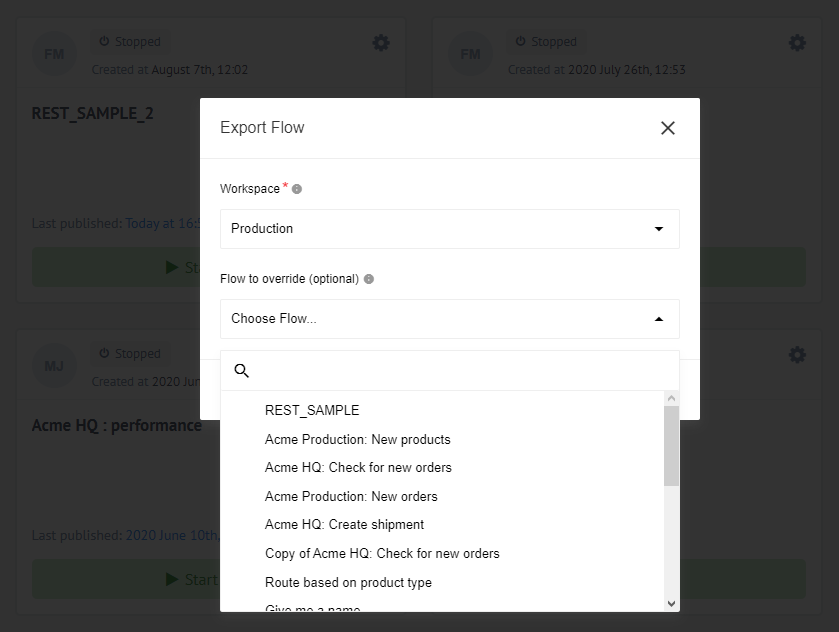
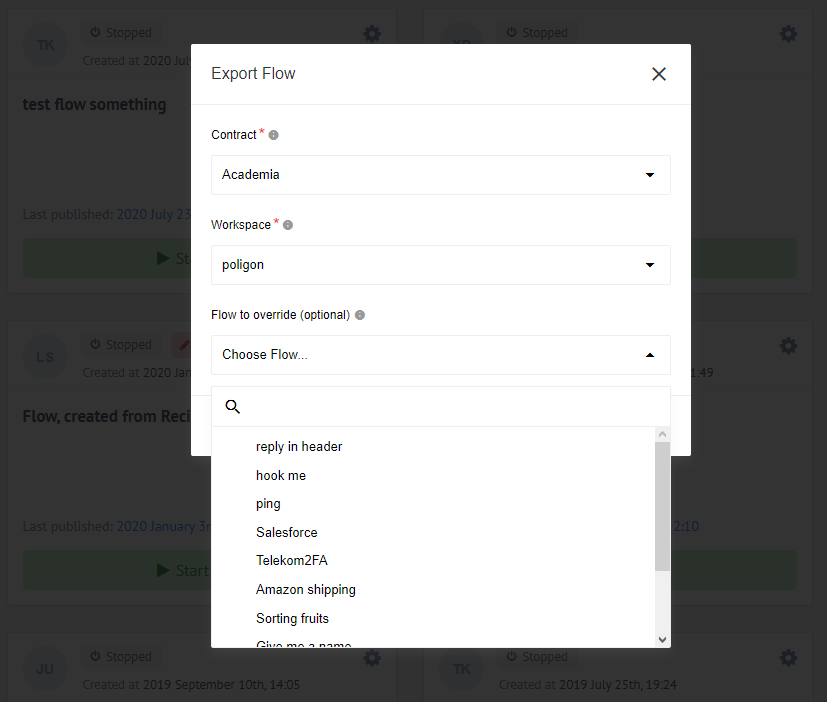
Copy_flow_2

diff --git a/content/_getting-started/copy-and-export-flow.md b/content/_getting-started/copy-and-export-flow.md
@@ -3,7 +3,7 @@ title: Copy and Export flow
 layout: article
 section: Platform Features
 description: This document provides basic information on how to copy and export flows.
-order: 6
+order: 10
 category: platform-features
 ---
 
@@ -36,14 +36,20 @@ You can export your flow from one workspace in to another the same contract. For
 
 ![Export flow](/assets/img/getting-started/copy-flow/export-flow.png)
 
-You need to select the destination workspace:
+You need to select the destination contract and workspace:
 
-![]()
+![Select Destination](/assets/img/getting-started/copy-flow/select-destination.png)
 
 You can choose a flow to **override** with this flow. If no flow to override is chosen, a new flow will be created:
 
 ![Override flow](/assets/img/getting-started/copy-flow/override-flow.png)
 
+> **Please Note:** When you override the flow, a draft will be created. The overridden flow will only be replaced with a exported flow when you publish a draft.
+
 A new flow with same name will be created in draft mode. You need to choose the credentials and publish the draft:
 
 ![Exported flow](/assets/img/getting-started/copy-flow/exported-flow.png)
+
+## API Endpoints
+
+You can use API endpoints with copy flow functionality. These endpoints are still in active development and should be regarded as experimental. Check our [API-docs documentation pages](https://api.elastic.io/docs/v2/#copy-flow-(experimental)) for more details.
